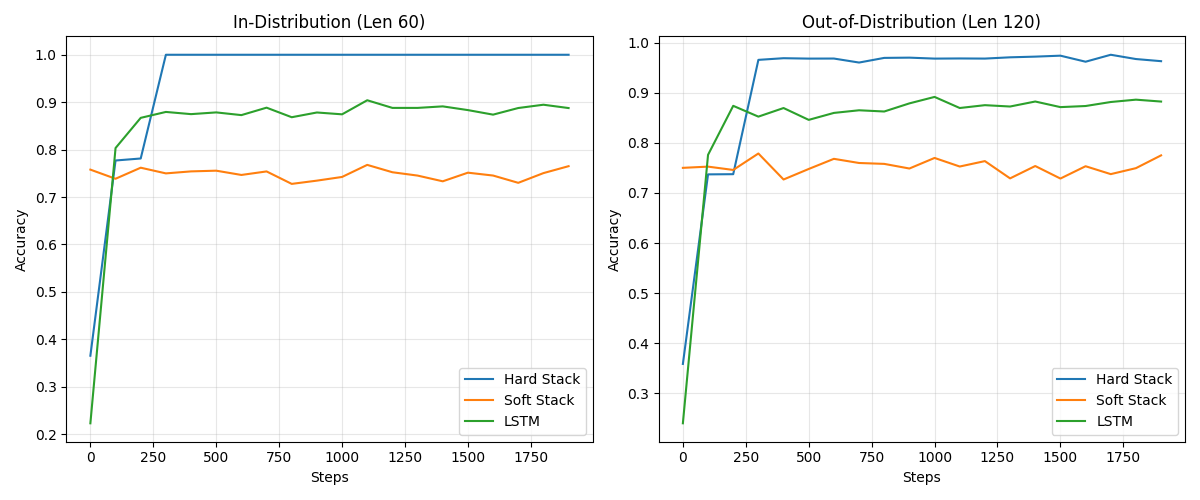
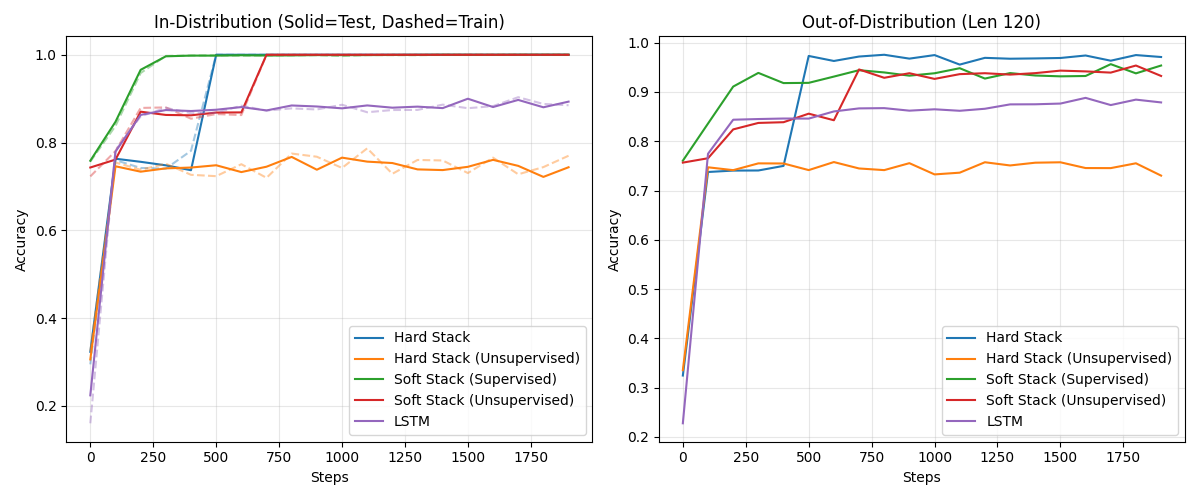
Add full comparison code, and implement unsupervised training regimes

diff --git a/run_experiment.py b/run_experiment.py
@@ -20,7 +20,7 @@ def create_train_state(model_class, key):
 
 
 @jax.jit
-def train_step(state, batch, use_forcing):
+def train_step(state, batch, use_forcing, supervise_trace):
     inputs, tgt_mem, tgt_buf, tgt_state = batch
     
     def loss_fn(params):
@@ -38,7 +38,7 @@ def train_step(state, batch, use_forcing):
             loss_m = optax.softmax_cross_entropy_with_integer_labels(l_mem, tgt_mem).mean()
             loss_s = optax.softmax_cross_entropy_with_integer_labels(l_state, tgt_state).mean()
             
-        total_loss = loss_b + loss_m + loss_s
+        total_loss = loss_b + (loss_m + loss_s) * supervise_trace
         acc = (jnp.argmax(l_buf, -1) == tgt_buf).mean()
         return total_loss, acc
         
@@ -60,48 +60,51 @@ def evaluate(state, seq_len, n_samples=100):
     token_acc = (pred_buf == tgt_buf).mean()
     return token_acc
 
-def run(model_name, model_class):
+def run(model_name, model_class, supervise_trace=True):
     print(f"\n--- Training {model_name} ---")
     key = jax.random.PRNGKey(42)
     state = create_train_state(model_class, key)
     
-    history = {"step": [], "id_acc": [], "ood_acc": []}
+    history = {"step": [], "train_acc": [], "id_acc": [], "ood_acc": []}
     
     for step in range(STEPS):
         batch = generate_rev_trace(BATCH_SIZE, SEQ_LENGTH)
         
-        # Linear decay of teacher forcing from 100% to 0% over first 2000 steps
-        forcing_prob = max(0.0, 1.0 - step / 2000.0)
-        use_forcing = (jax.random.uniform(jax.random.PRNGKey(step)) < forcing_prob)
-        
-        state, loss, acc = train_step(state, batch, use_forcing)
+        trace_weight = 1.0 if supervise_trace else 0.0
+        state, loss, acc = train_step(state, batch, use_forcing=False, supervise_trace=trace_weight)
         
         if step % EVAL_FREQ == 0:
             id_acc = evaluate(state, SEQ_LENGTH)
             ood_acc = evaluate(state, TEST_SEQ_LENGTH)
             
             history["step"].append(step)
+            history["train_acc"].append(acc)
             history["id_acc"].append(id_acc)
             history["ood_acc"].append(ood_acc)
             
-            print(f"Step {step:4d} | ID Acc: {id_acc:.2%} | OOD Acc: {ood_acc:.2%} | Forcing: {forcing_prob:.1f}")
+            print(f"Step {step:4d} | Train Acc: {acc:.2%} | ID Acc: {id_acc:.2%} | OOD Acc: {ood_acc:.2%}")
             
     return history
 
 if __name__ == "__main__":
     results = {}
-    results["Hard Stack"] = run("Hard Stack", NeuralStackMachine)
-    results["Soft Stack"] = run("Soft Stack", NeuralSoftStackMachine)
-    results["LSTM"] = run("Vanilla LSTM", VanillaLSTM)
+    results["Hard Stack"] = run("Hard Stack", NeuralStackMachine, supervise_trace=True)
+    results["Hard Stack (Unsupervised)"] = run("Hard Stack (Unsupervised)", NeuralStackMachine, supervise_trace=False)
+    results["Soft Stack (Supervised)"] = run("Soft Stack (Supervised)", NeuralSoftStackMachine, supervise_trace=True)
+    results["Soft Stack (Unsupervised)"] = run("Soft Stack (Unsupervised)", NeuralSoftStackMachine, supervise_trace=False)
+    results["LSTM"] = run("Vanilla LSTM", VanillaLSTM, supervise_trace=False)
     
     # Plotting
     fig, ax = plt.subplots(1, 2, figsize=(12, 5))
     
     for name, hist in results.items():
-        ax[0].plot(hist["step"], hist["id_acc"], label=name)
-        ax[1].plot(hist["step"], hist["ood_acc"], label=name)
+        line, = ax[0].plot(hist["step"], hist["id_acc"], label=name)
+        color = line.get_color()
+        ax[0].plot(hist["step"], hist["train_acc"], linestyle="--", alpha=0.4, color=color)
+        ax[1].plot(hist["step"], hist["ood_acc"], label=name, color=color)
         
     ax[0].set_title(f"In-Distribution (Len {SEQ_LENGTH})")
+    ax[0].set_title(f"In-Distribution (Solid=Test, Dashed=Train)")
     ax[1].set_title(f"Out-of-Distribution (Len {TEST_SEQ_LENGTH})")
     
     for a in ax:

diff --git a/stack_utils.py b/stack_utils.py
@@ -46,12 +46,11 @@ def update_stack(stack, ptr, action):
 
 
 
-def soft_update_stack(stack, ptr_dist, action_probs):
+def soft_update_stack(stack, action_probs):
     """
-    "soft" stack update
+    "soft" stack update (Shift-based / No Pointer)
     
     stack: [Depth, Stack_Vocab_Size]
-    ptr_dist: [Depth] (Distribution)
     action_probs: [4] (NOOP, PUSH0, PUSH1, POP)
     """
     # actions
@@ -62,44 +61,33 @@ def soft_update_stack(stack, ptr_dist, action_probs):
     
     total_push = p_push0 + p_push1
     
-    #READ
-    # Shift pointer up
-    pop_ptr_dist = jnp.roll(ptr_dist, -1)
+    # 1. SHIFT DOWN (PUSH Candidate)
+    # stack[i] <- stack[i-1], stack[0] <- new_val
+    stack_down = jnp.roll(stack, 1, axis=0)
     
-    #boundary
-    pop_ptr_dist = pop_ptr_dist.at[-1].set(0.0)
-    pop_ptr_dist = pop_ptr_dist.at[0].add(ptr_dist[0])
-
-    #weighted stack
-    read_val_vec = jnp.sum(stack * pop_ptr_dist[:, None], axis=0)
+    # Calculate push value (handle divide by zero)
+    safe_push = jnp.where(total_push > 0, total_push, 1.0)
+    val_push_0 = p_push0 / safe_push
+    val_push_1 = p_push1 / safe_push
     
-    #WRITE
-    val_push_0 = p_push0 / total_push
-    val_push_1 = p_push1 / total_push
+    write_vec = jnp.array([0.0, 1.0, 0.0]) * val_push_0 + \
+                jnp.array([0.0, 0.0, 1.0]) * val_push_1
     
-
-    write_vec = jnp.array([0.0, 1.0, 0.0]) * val_push_0 + jnp.array([0.0, 0.0, 1.0]) * val_push_1
+    stack_down = stack_down.at[0].set(write_vec)
     
-    # mix old stack and new value
-    write_gate = ptr_dist[:, None] * total_push
-    stack_new = stack * (1.0 - write_gate) + write_vec[None, :] * write_gate
-    
-    # Erase
-    pop_gate = pop_ptr_dist[:, None] * p_pop
+    # 2. SHIFT UP (POP Candidate)
+    # stack[i] <- stack[i+1], stack[-1] <- NULL
+    stack_up = jnp.roll(stack, -1, axis=0)
     null_vec = jnp.array([1.0, 0.0, 0.0])
-    stack_new = stack_new * (1.0 - pop_gate) + null_vec[None, :] * pop_gate
+    stack_up = stack_up.at[-1].set(null_vec)
     
-    #move ptr
+    # 3. COMBINE
+    stack_new = (p_noop * stack) + \
+                (total_push * stack_down) + \
+                (p_pop * stack_up)
     
-    push_ptr_dist = jnp.roll(ptr_dist, 1)
-    push_ptr_dist = push_ptr_dist.at[0].set(0.0) #bottom doesnt wrap to top
+    # 4. READ (Peek at top)
+    # If we pop, we consume the top value.
+    r_t = stack[0] * p_pop + null_vec * (1.0 - p_pop)
     
-    # all movement possibilities
-    new_ptr_dist = (p_noop * ptr_dist) + \
-                   (total_push * push_ptr_dist) + \
-                   (p_pop * pop_ptr_dist)
-                   
-    # Scale read value by probability of popping
-    r_t = read_val_vec * p_pop
-    
-    return stack_new, new_ptr_dist, r_t
+    return stack_new, r_t

diff --git a/models.py b/models.py
@@ -68,7 +68,7 @@ class SoftStackMachineCell(nn.Module):
     
     @nn.compact
     def __call__(self, carry, inputs):
-        stack, ptr_dist, r_prev, s_prev = carry
+        stack, r_prev, s_prev = carry
         x_t, true_act, true_s, use_forcing = inputs
         
         # Embeddings (r_prev is now a vector, not an int index)
@@ -92,9 +92,9 @@ class SoftStackMachineCell(nn.Module):
         pred_state = jnp.argmax(logits_state, axis=-1)
         next_s = jnp.where(use_forcing > 0, true_s, pred_state)
         
-        stack_new, ptr_new, r_new = jax.vmap(soft_update_stack)(stack, ptr_dist, probs_to_exec)
+        stack_new, r_new = jax.vmap(soft_update_stack)(stack, probs_to_exec)
         
-        new_carry = (stack_new, ptr_new, r_new, next_s)
+        new_carry = (stack_new, r_new, next_s)
         return new_carry, (logits_mem, logits_buf, logits_state)
 
 class NeuralSoftStackMachine(nn.Module):
@@ -103,12 +103,11 @@ class NeuralSoftStackMachine(nn.Module):
         batch_size, seq_len = x.shape
         
         init_stack = jnp.zeros((batch_size, STACK_DEPTH, STACK_VOCAB_SIZE))
-        init_ptr = jnp.zeros((batch_size, STACK_DEPTH))
-        init_ptr = init_ptr.at[:, 0].set(1.0) # Pointer at bottom
+        init_stack = init_stack.at[:, :, STACK_NULL].set(1.0)
         init_reg = jnp.zeros((batch_size, STACK_VOCAB_SIZE)) # Empty reg
         init_state = jnp.zeros((batch_size,), dtype=jnp.int32)
         
-        carry = (init_stack, init_ptr, init_reg, init_state)
+        carry = (init_stack, init_reg, init_state)
         forcing_seq = jnp.full((batch_size, seq_len), use_forcing, dtype=jnp.float32)
         
         scan_inputs = (x, true_actions, true_states, forcing_seq)
